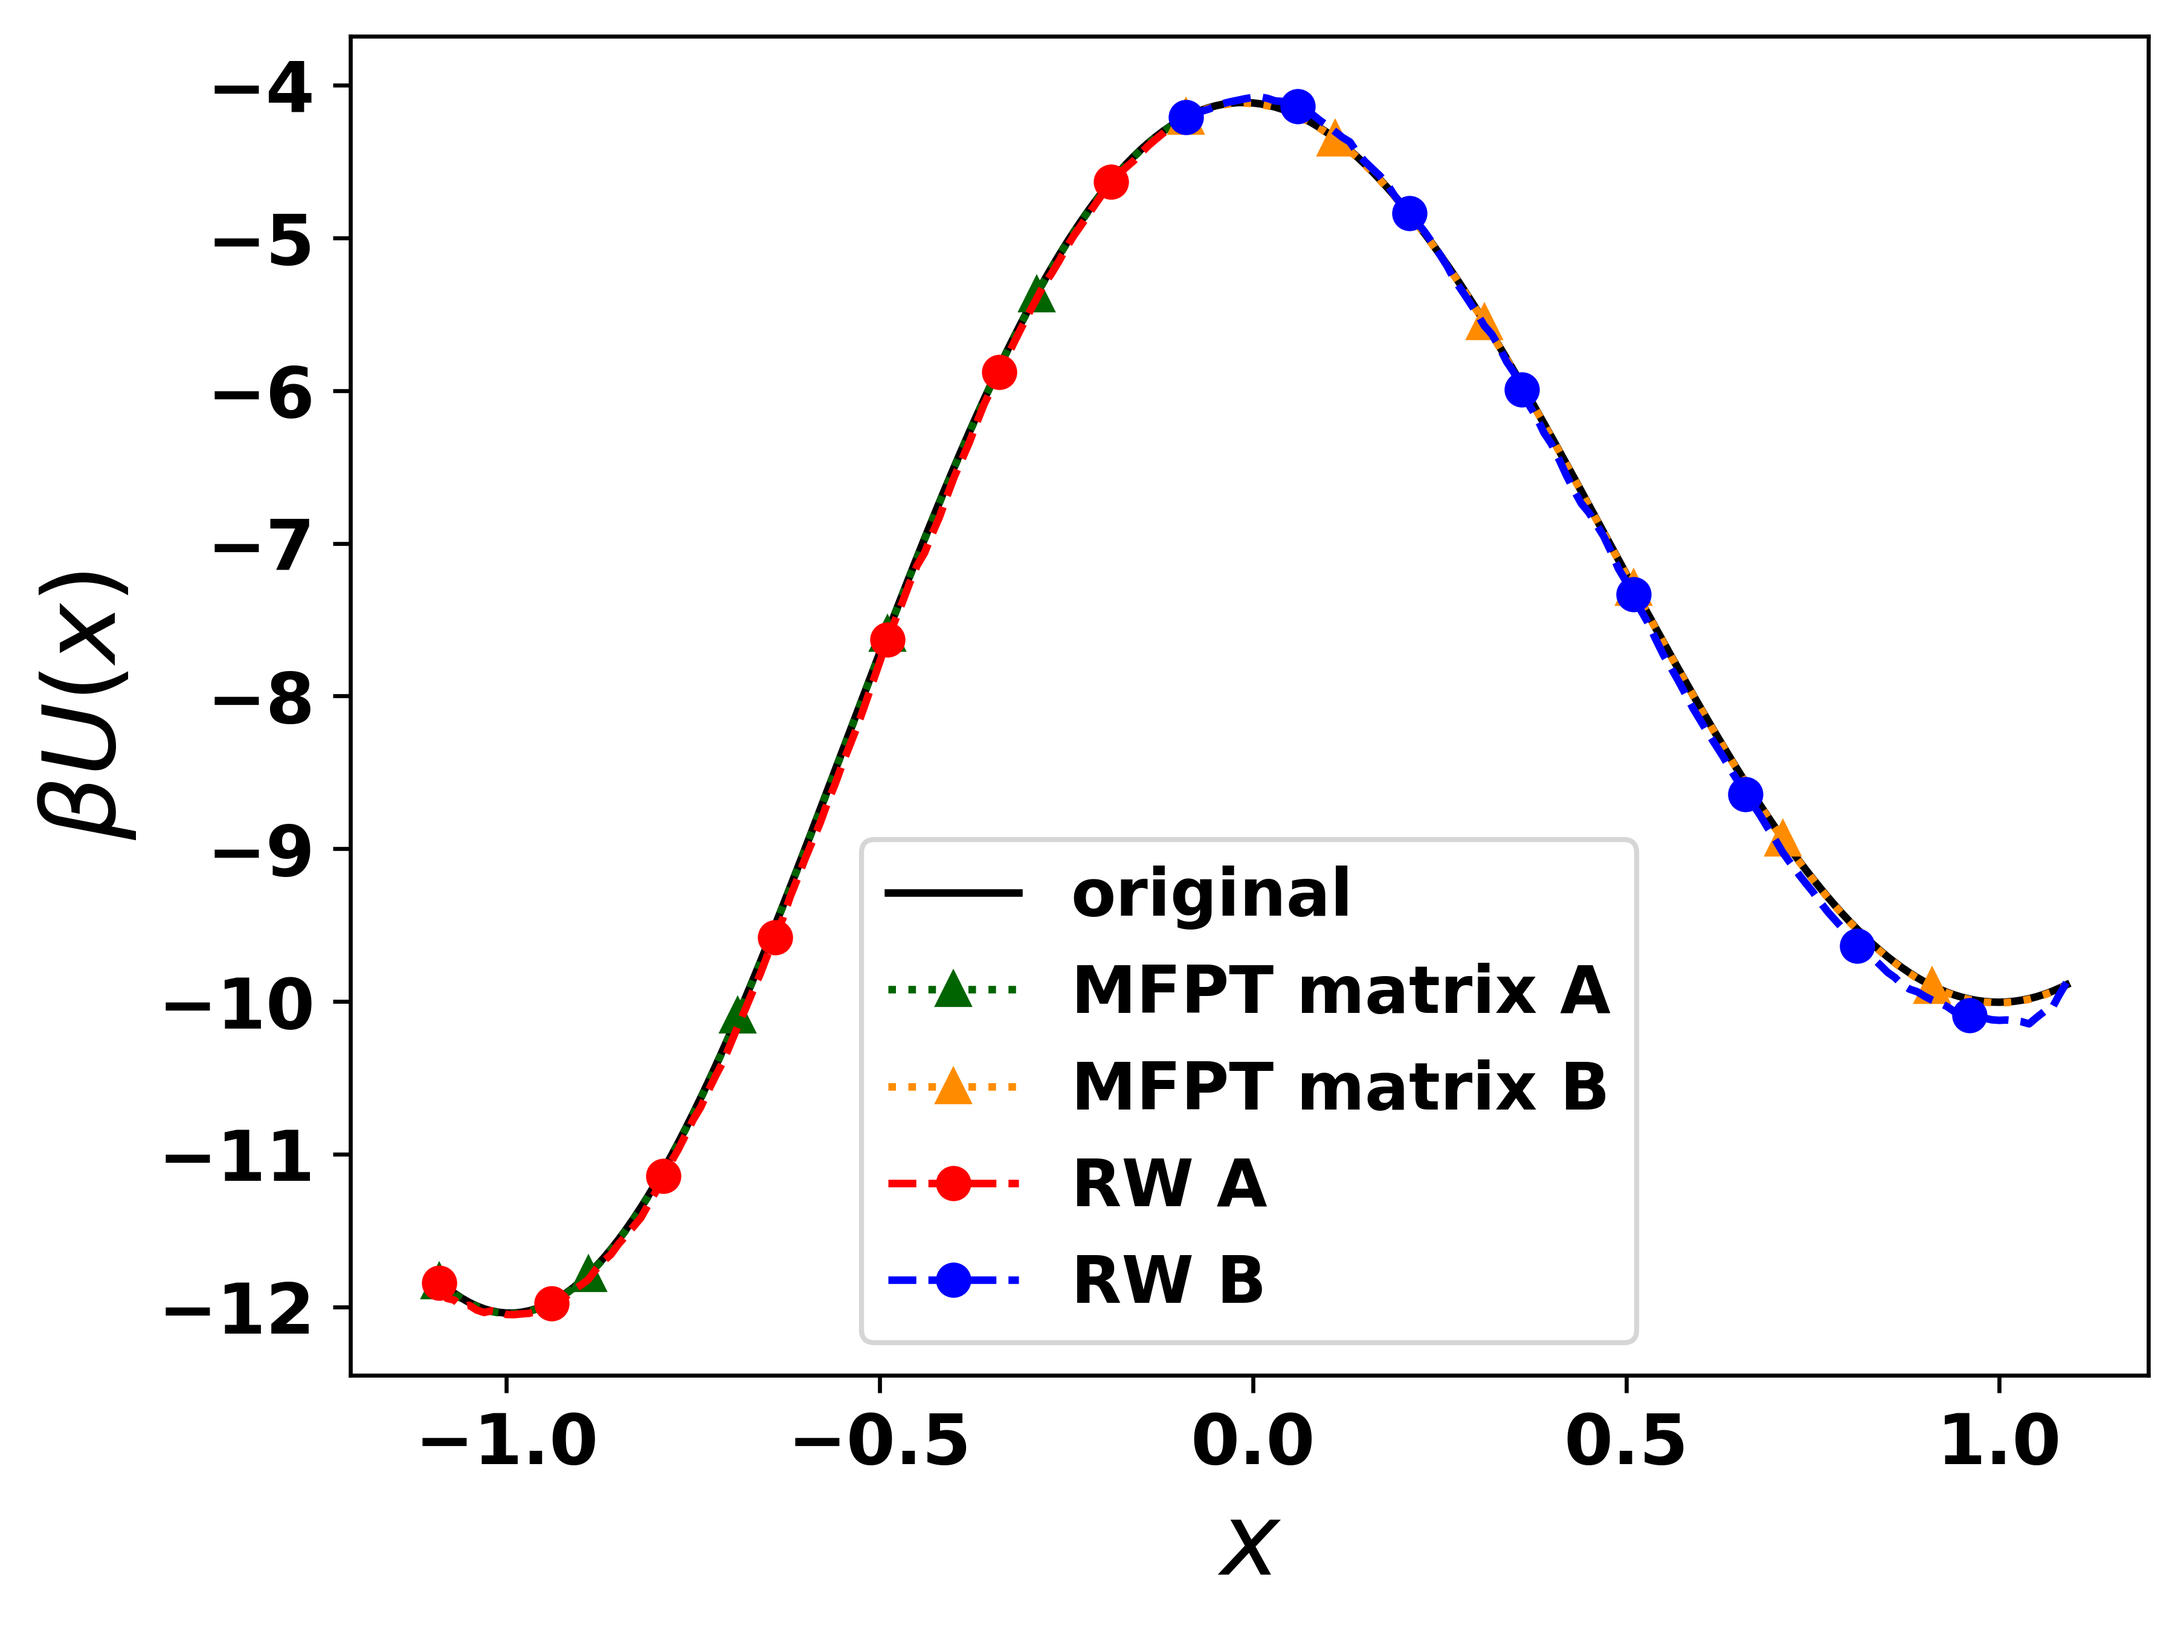
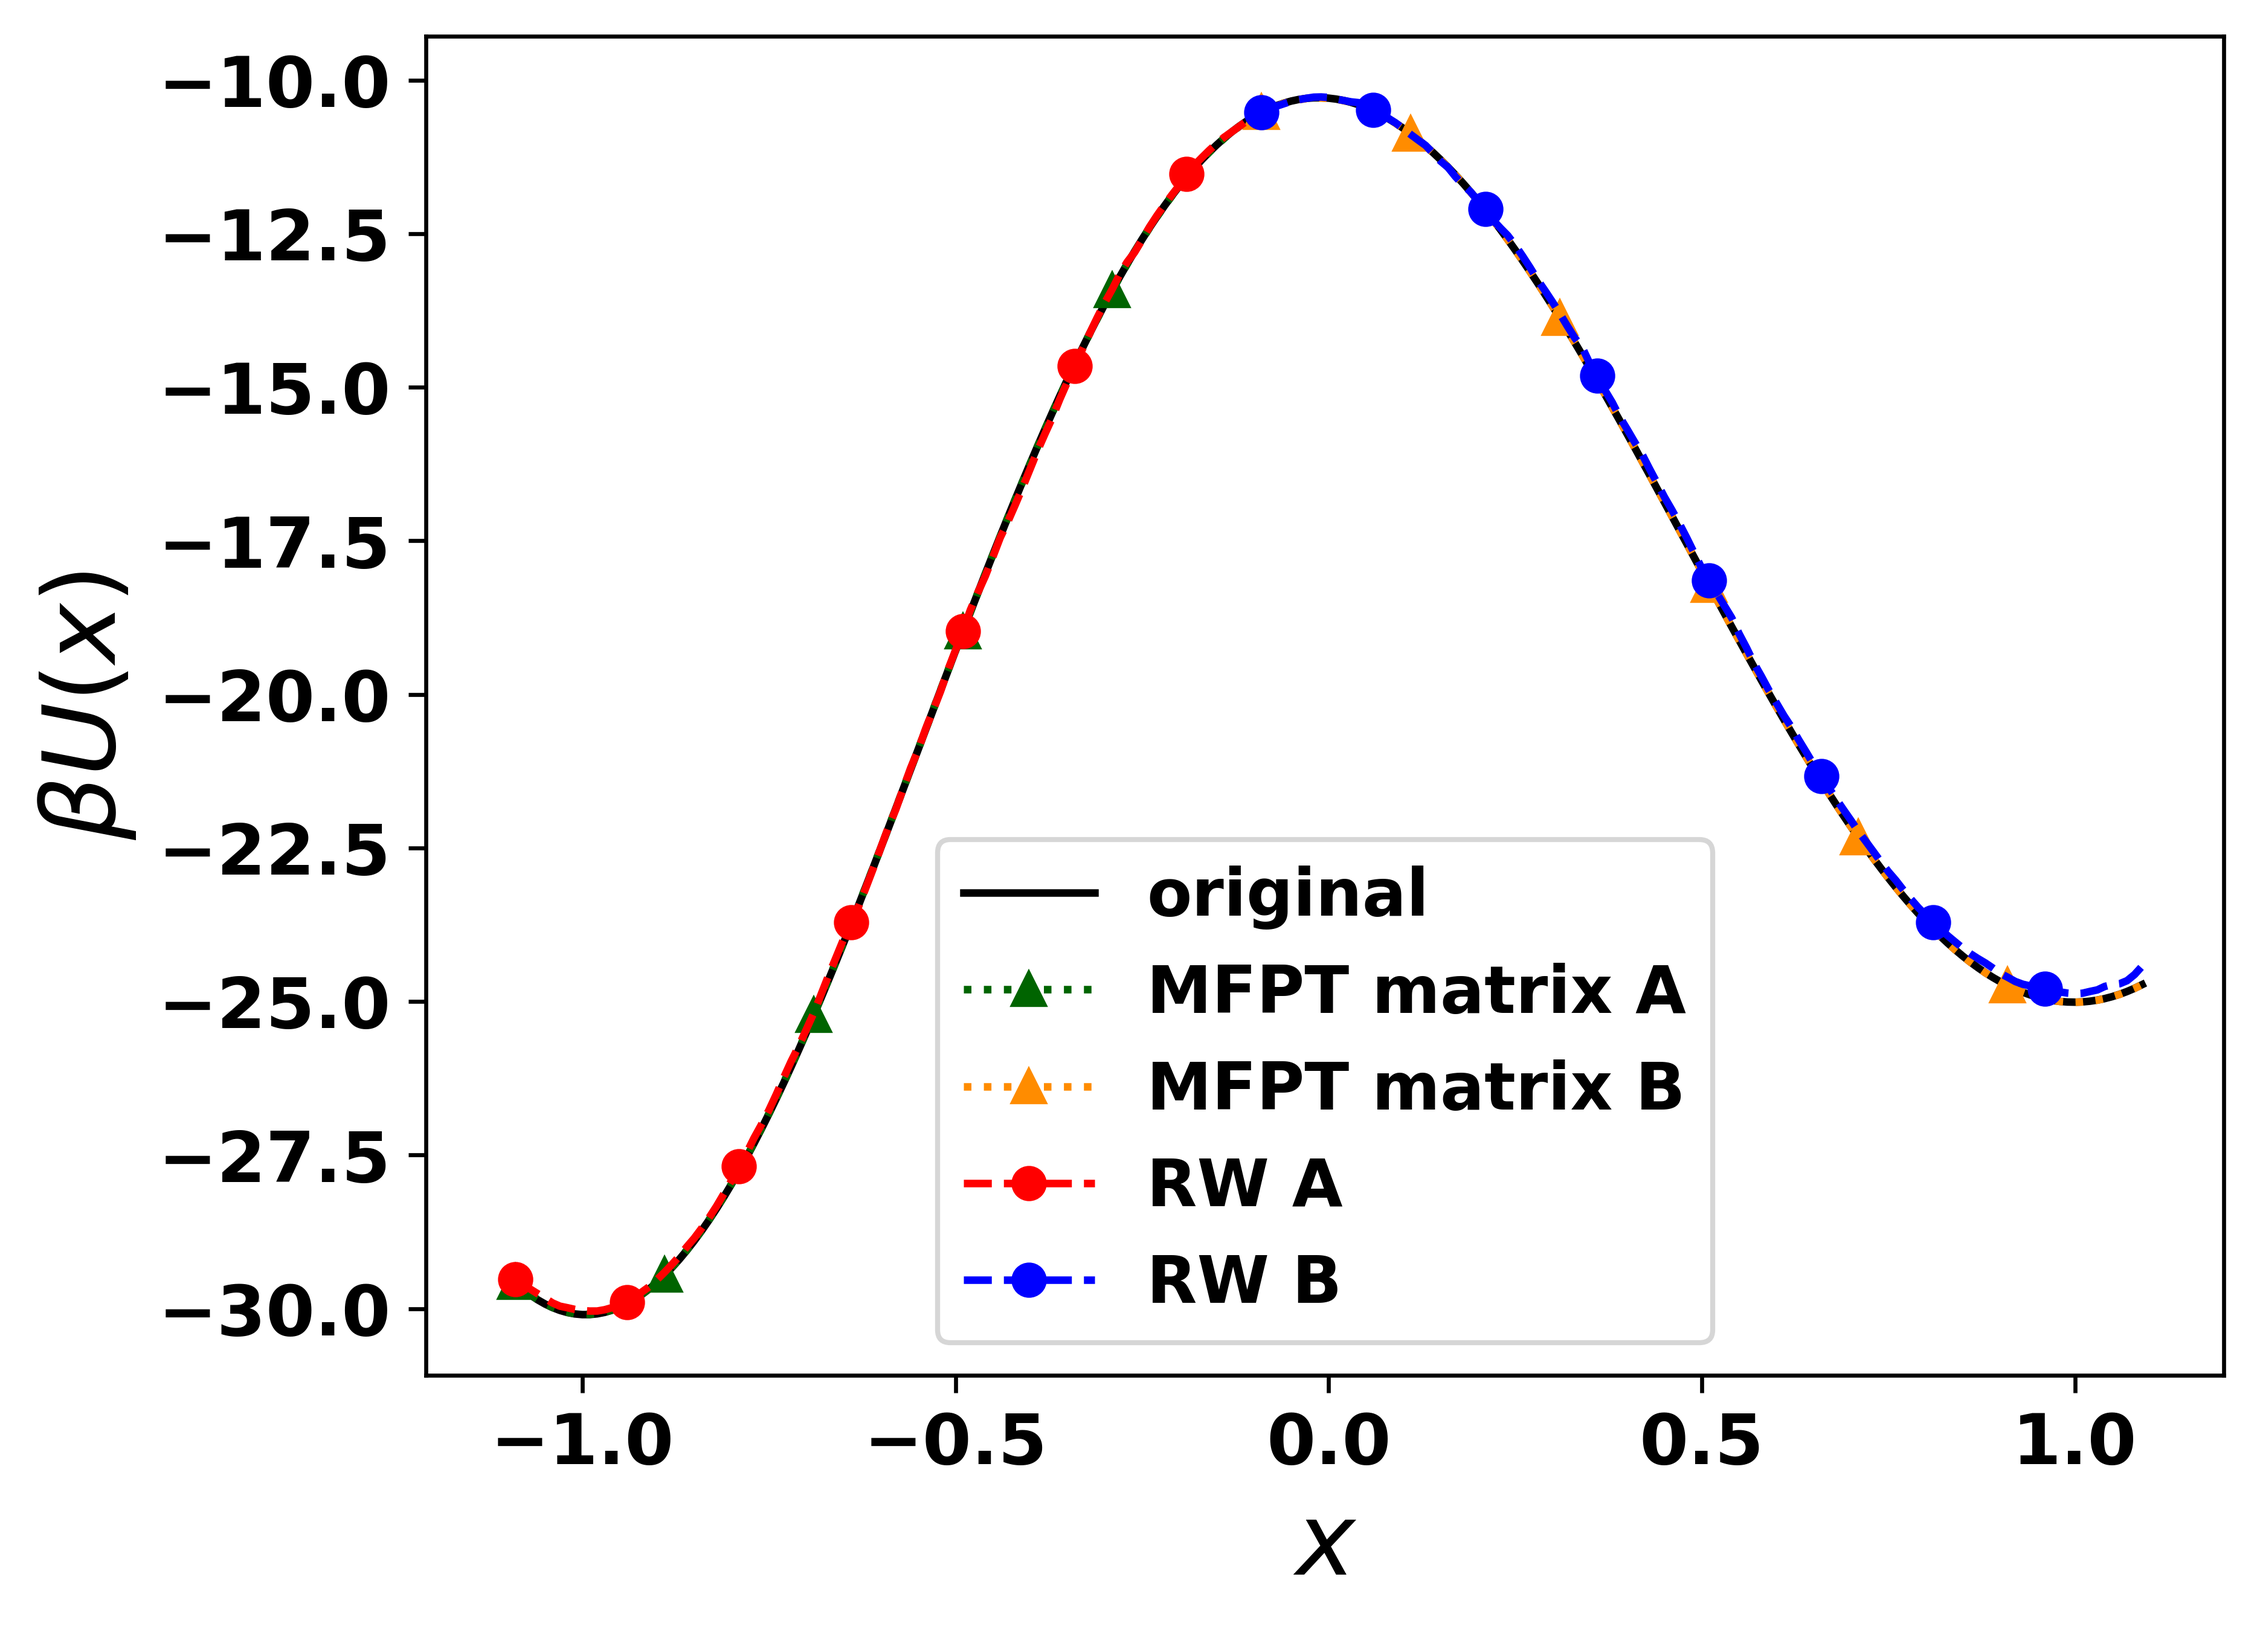
Add plot script and nicer plots for two-region method (high barrier RW)

diff --git a/Two_region_method/Random_walk_Model/two_region_reconst_plot.py b/Two_region_method/Random_walk_Model/two_region_reconst_plot.py
@@ -8,8 +8,8 @@ import matplotlib.pyplot as plt
 
 # Define the double-well potential using two Gaussian functions
 # def double_gaussian_potential(x, A1=3, mu1=-1, sigma1=0.5, A2=4, mu2=1, sigma2=0.6):
-def double_gaussian_potential(x, A1=12, mu1=-1, sigma1=0.5, A2=10, mu2=1, sigma2=0.6):
-# def double_gaussian_potential(x, A1=30, mu1=-1, sigma1=0.5, A2=25, mu2=1, sigma2=0.6):
+# def double_gaussian_potential(x, A1=12, mu1=-1, sigma1=0.5, A2=10, mu2=1, sigma2=0.6):
+def double_gaussian_potential(x, A1=30, mu1=-1, sigma1=0.5, A2=25, mu2=1, sigma2=0.6):
     V1 = A1 * np.exp(-((x - mu1)**2) / (2 * sigma1**2))
     V2 = A2 * np.exp(-((x - mu2)**2) / (2 * sigma2**2))
     return -(V1 + V2)
